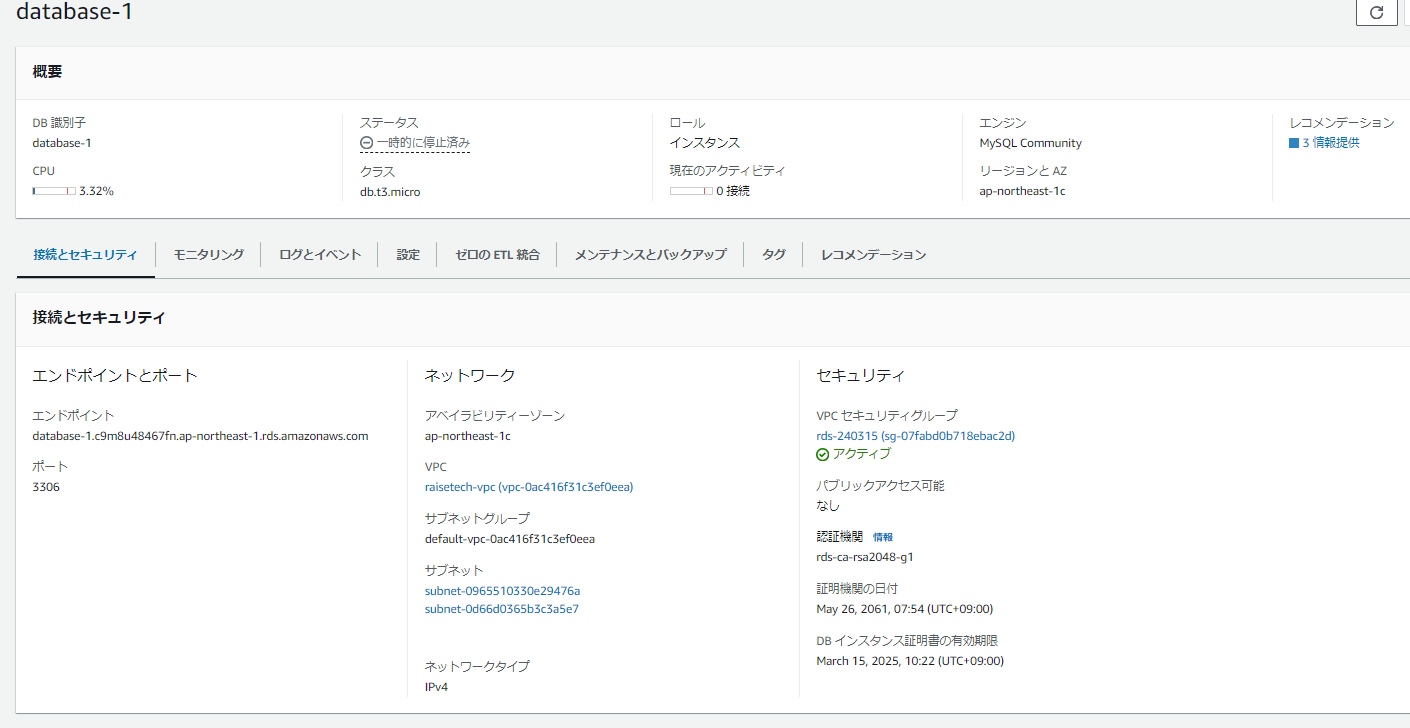
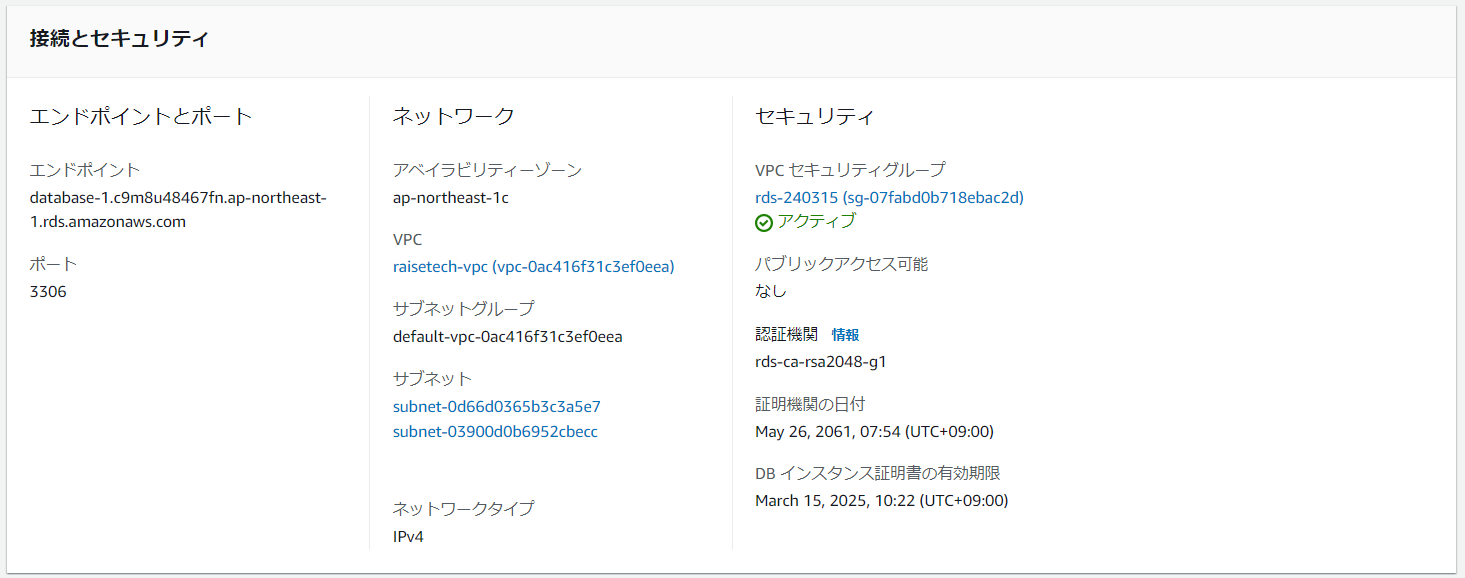
fix06 lecture04

diff --git a/lecture04.md b/lecture04.md
@@ -15,9 +15,8 @@
 ![RDSセキュリティグループ　アウトバウンド](images/lecture4-6-1.png)
 - RDS サブネット変更
 ![RDSサブネット変更](images/lecture4-7.png)
-![RDSサブネット](images/lecture4-10.png)
-![RDSパブリックサブネット](images/lecture4-9.png)
-![RDSプライベートサブネット](images/lecture4-8.png)
+![RDSプライベートサブネット1](images/lecture4-8.png)
+![RDSプライベートサブネット2](images/lecture4-9.png)
 - EC2からRDSへ接続
 ![接続](images/lecture4-4.png)
 
